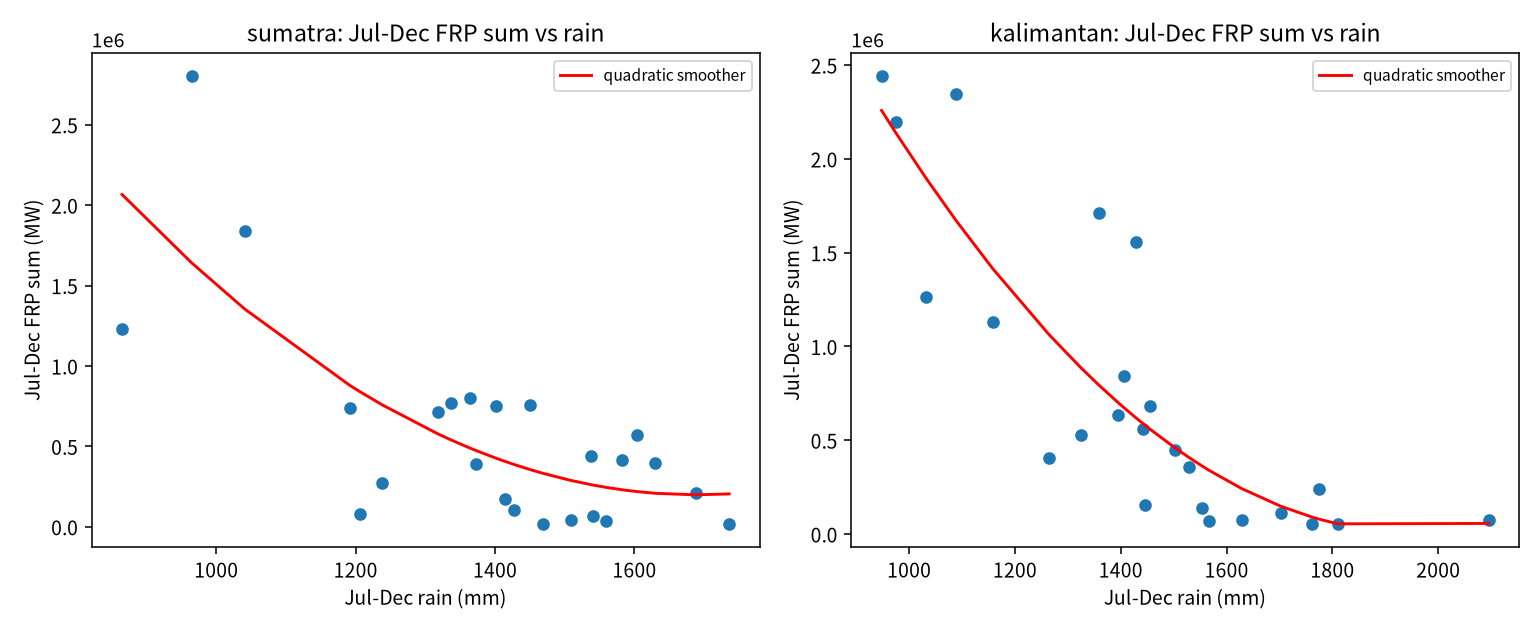
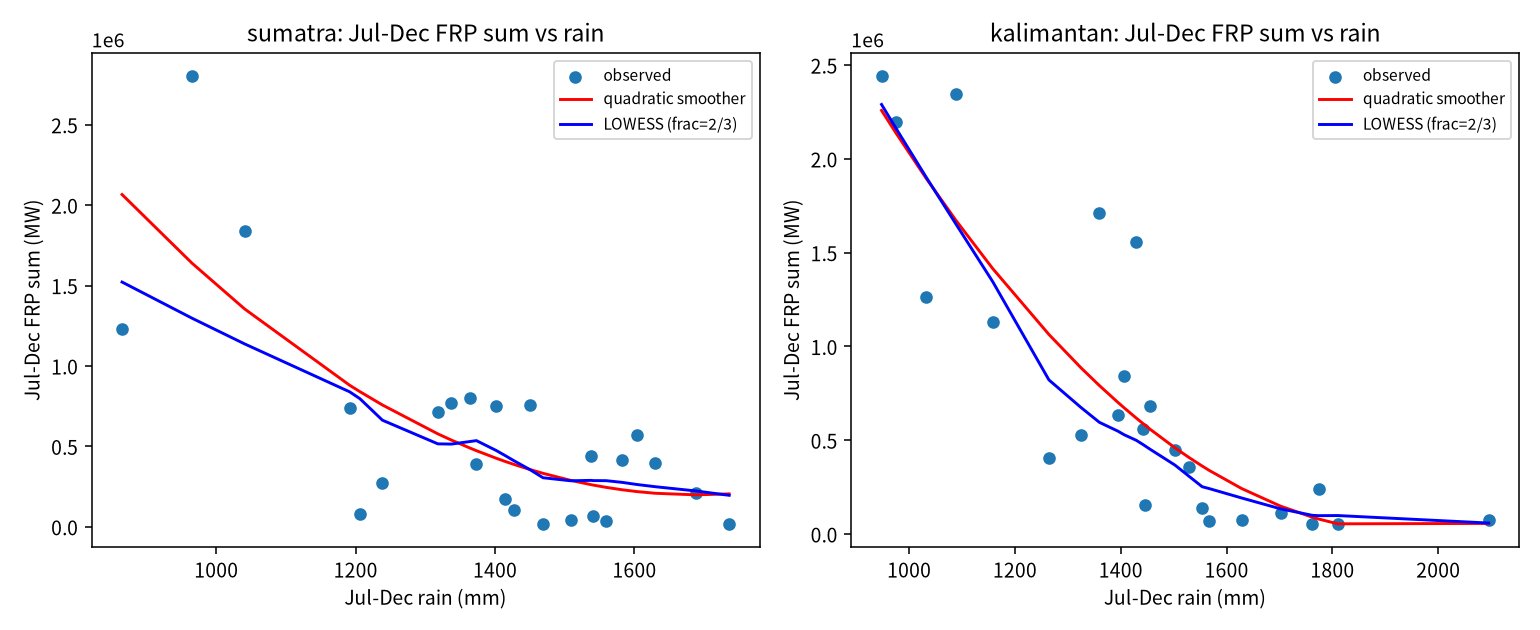
fix(v2-stage2): address review comments on Holm, Sloan labels, LOWESS, residuals
Four reviewer-requested fixes:

1. Holm correction: replaced the reverse-cummin (step-up) implementation with
   statsmodels.stats.multitest.multipletests(p, method="holm"). T3 and T5
   adjusted p-values are now 4.75e-06 (previously 4.26e-06). All six tests
   remain significant at alpha=0.05.

2. Sloan comparison labels: the 19-27% and 23-34% figures are now described as
   ranges across Sloan's four regions for both islands. The -16% seasonal
   severity figure is noted as Sloan's Sumatra value. Added a note that our
   island boxes are not the same units as Sloan's regions, so the comparison
   is side-by-side, not like-for-like. Removed "national" and "regional"
   wording.

3. FRP-rain scatter: added a LOWESS smoother (statsmodels lowess, frac=2/3)
   alongside the existing quadratic curve in v2_exploratory_frp_rain.png.
   Re-described the shape as a gradual negative slope without a sharp
   threshold. Marked exploratory, no significance claims.

4. T1/T2 residual diagnostics: added v2_t1t2_residuals.csv with mean WLS
   residuals for 2002-2015 and 2016-2025 (unweighted and fire-point-weighted).
   Post-2016 mean residuals are negative for both islands, indicating the
   linear trend under-predicts the post-2016 decline. Descriptive only; no
   new test, no change to main results.

Step 1 and T1/T2 primary results are unchanged (seeds fixed).

diff --git a/src/v2_stage2.py b/src/v2_stage2.py
@@ -12,6 +12,7 @@ Outputs:
   results/v2_step1_models.csv       Step 1 (a) severe/very-severe and (b) skewness, 2002-2019
   results/v2_step1_yearly.csv       yearly inputs for Step 1
   results/v2_t1t2_primary.csv       T1/T2 2002-2025 WLS, p-values, bootstrap, LOO
+  results/v2_t1t2_residuals.csv    T1/T2 WLS mean residuals, 2002-2015 vs 2016-2025
   results/v2_t1t2_robustness.csv    T1/T2 robustness (post2016 step, block bootstrap, LOO, Aqua)
   results/v2_t1t2_yearly.csv        yearly inputs for T1/T2
   results/v2_holm.csv               Holm correction over T1-T6
@@ -329,6 +330,7 @@ def run_t1t2_robustness(yearly, events_all):
 
 # ---------- Holm ----------
 def holm():
+    from statsmodels.stats.multitest import multipletests
     q3 = pd.read_csv(os.path.join(RES, "v2_q3_results.csv"))
     q3p = q3[q3["kind"] == "primary"][["id", "p_raw"]].copy()
     q3p.columns = ["id", "p_raw"]
@@ -338,9 +340,8 @@ def holm():
     p = p.sort_values("p_raw").reset_index(drop=True)
     m = len(p)
     p["rank"] = np.arange(1, m + 1)
-    p["holm_p"] = np.minimum(1.0, (m - p["rank"] + 1) * p["p_raw"])
-    # enforce monotonicity (holm p is non-decreasing in rank)
-    p["holm_p"] = p["holm_p"][::-1].cummin()[::-1]
+    reject, holm_p, _, _ = multipletests(p["p_raw"].to_numpy(float), alpha=0.05, method="holm")
+    p["holm_p"] = holm_p
     p["significant_0.05"] = p["holm_p"] < 0.05
     return p
 
@@ -417,19 +418,26 @@ def make_plots(yearly, events):
     fig.savefig(os.path.join(RES, "v2_t1t2_trend.png"), dpi=140)
     plt.close(fig)
 
-    # exploratory: FRP sum vs Jul-Dec rain, scatter + lowess-ish smoother
+    # exploratory: FRP sum vs Jul-Dec rain, scatter + quadratic + LOWESS smoothers
+    from statsmodels.nonparametric.smoothers_lowess import lowess
     fig, axes = plt.subplots(1, 2, figsize=(11, 4.5))
     for ax, isl in zip(axes, ISLANDS):
         d = yearly[yearly["island"] == isl]
-        ax.scatter(d["rain_juldec"], d["frp_sum"], s=30)
-        # simple loess via polynomial order 2
+        ax.scatter(d["rain_juldec"], d["frp_sum"], s=30, label="observed")
+        x = d["rain_juldec"].to_numpy(float)
+        y = d["frp_sum"].to_numpy(float)
+        order = np.argsort(x)
+        xs = x[order]
+        # quadratic smoother (reference)
         try:
-            x = d["rain_juldec"].to_numpy(float)
-            y = d["frp_sum"].to_numpy(float)
-            order = np.argsort(x)
-            xs = x[order]
             coef = np.polyfit(x, y, 2)
             ax.plot(xs, np.polyval(coef, xs), color="red", label="quadratic smoother")
+        except Exception:
+            pass
+        # LOWESS smoother (frac=2/3)
+        try:
+            lw = lowess(y, x, frac=2.0 / 3.0, return_sorted=True)
+            ax.plot(lw[:, 0], lw[:, 1], color="blue", label="LOWESS (frac=2/3)")
         except Exception:
             pass
         ax.set_title(f"{isl}: Jul-Dec FRP sum vs rain")
@@ -439,6 +447,32 @@ def make_plots(yearly, events):
     fig.tight_layout()
     fig.savefig(os.path.join(RES, "v2_exploratory_frp_rain.png"), dpi=140)
     plt.close(fig)
+
+
+# ---------- T1/T2 residual diagnostics (descriptive, no test) ----------
+def t1t2_residuals(yearly):
+    """Mean WLS residuals of the T1/T2 severe-share model, split at 2016.
+
+    Computes, per island, the mean residual for 2002-2015 and 2016-2025, both
+    unweighted and weighted by fire_points. Descriptive only; no significance
+    test is performed and the main results are not changed.
+    """
+    rows = []
+    for tid, isl in zip(["T1", "T2"], ISLANDS):
+        d = yearly[yearly["island"] == isl].copy()
+        m, sub = fit_wls(d, "prop_severe", ["rain_juldec", "year0"], "fire_points")
+        sub = sub.copy()
+        sub["resid"] = m.resid
+        sub["year"] = d.loc[sub.index, "year"].to_numpy()
+        for label, mask in [("2002-2015", sub["year"] <= 2015),
+                            ("2016-2025", sub["year"] >= 2016)]:
+            g = sub[mask]
+            rows.append({
+                "id": tid, "island": isl, "period": label, "n": int(len(g)),
+                "mean_resid_unweighted": float(g["resid"].mean()),
+                "mean_resid_weighted": float(np.average(g["resid"], weights=g["fire_points"])),
+            })
+    return pd.DataFrame(rows)
 
 
 def main():
@@ -462,6 +496,10 @@ def main():
     t1t2 = run_t1t2(yearly)
     t1t2.to_csv(os.path.join(RES, "v2_t1t2_primary.csv"), index=False)
     yearly.to_csv(os.path.join(RES, "v2_t1t2_yearly.csv"), index=False)
+
+    # T1/T2 residual diagnostics (descriptive)
+    res = t1t2_residuals(yearly)
+    res.to_csv(os.path.join(RES, "v2_t1t2_residuals.csv"), index=False)
 
     # T1/T2 robustness
     print("T1/T2 robustness...")
@@ -493,6 +531,8 @@ def main():
     print(step1.to_string(index=False))
     print("\n=== T1/T2 ===")
     print(t1t2.to_string(index=False))
+    print("\n=== T1/T2 residuals (descriptive) ===")
+    print(res.to_string(index=False))
     print("\n=== T1/T2 robustness ===")
     print(rob.to_string(index=False))
     print("\n=== Holm ===")

diff --git a/docs/2026-11-02_v2_results.md b/docs/2026-11-02_v2_results.md
@@ -70,13 +70,13 @@ are from `results/v2_t1t2_primary.csv`. Holm-adjusted p-values are in
 
 All values from `results/v2_step1_models.csv`.
 
-| Island | Outcome | Year coef | % change 17 yr | Bootstrap 95% CI | Sloan (regional) |
+| Island | Outcome | Year coef | % change 17 yr | Bootstrap 95% CI | Sloan (range across four regions) |
 |---|---|---|---|---|---|
 | Sumatra | severe | -0.001898 | -11.7% | [-29.7%, -0.6%] | 19-27% decline |
 | Sumatra | very severe | 0.000143 | +2.3% | [-25.2%, +19.6%] | 23-34% decline |
-| Sumatra | skewness | -1.8565 | -48.1% | [-79.3%, +15.0%] | -16% (Sumatra) |
-| Kalimantan | severe | -0.003421 | -17.7% | [-35.9%, -11.0%] | 19-27% decline (national) |
-| Kalimantan | very severe | -0.002596 | -30.1% | [-59.1%, -12.8%] | 23-34% decline (national) |
+| Sumatra | skewness | -1.8565 | -48.1% | [-79.3%, +15.0%] | -16% (Sumatra seasonal severity) |
+| Kalimantan | severe | -0.003421 | -17.7% | [-35.9%, -11.0%] | 19-27% decline |
+| Kalimantan | very severe | -0.002596 | -30.1% | [-59.1%, -12.8%] | 23-34% decline |
 | Kalimantan | skewness | -0.8006 | -30.9% | [-62.9%, +27.9%] | (not reported by Sloan) |
 
 Drop-2015 / drop-2019 (severe model):
@@ -90,19 +90,24 @@ Drop-2015 / drop-2019 (severe model):
 
 Honest comparison with Sloan et al. 2022:
 
-- Severe-event decline: Sumatra -11.7 percent (Sloan 19-27 percent) is the same direction
-  but about half the magnitude. Kalimantan -17.7 percent is also a decline; Sloan's figure
-  is national, so it is not directly comparable.
-- Very-severe-event decline: Sumatra goes the opposite way, +2.3 percent (Sloan 23-34
-  percent decline), with a wide bootstrap interval that includes zero. Kalimantan -30.1
-  percent is inside Sloan's national range.
-- Seasonal-severity skewness: Sumatra -48.1 percent (Sloan -16 percent) and Kalimantan
-  -30.9 percent are both declines, but both bootstrap intervals include zero, so the
-  direction is not robust.
+- The Sloan figures in the table are the ranges across his four regions
+  (Indonesia excluding Java and Lesser Sunda; Central-South Sumatra; Southern
+  Kalimantan; Targeted Areas). The -16 percent seasonal-severity figure is his
+  Sumatra value. Our two island boxes are not the same geographic units as
+  Sloan's regions, so this is a side-by-side comparison, not a like-for-like
+  reproduction.
+- Severe-event decline: Sumatra -11.7 percent and Kalimantan -17.7 percent are
+  the same direction as Sloan's 19-27 percent range but smaller in magnitude.
+- Very-severe-event decline: Sumatra goes the opposite way, +2.3 percent (Sloan
+  23-34 percent decline), with a wide bootstrap interval that includes zero.
+  Kalimantan -30.1 percent falls inside Sloan's range.
+- Seasonal-severity skewness: Sumatra -48.1 percent (Sloan -16 percent for
+  Sumatra) and Kalimantan -30.9 percent are both declines, but both bootstrap
+  intervals include zero, so the direction is not robust.
 
-These differences are kept as-is. Our island boxes differ from Sloan's province-based
-regions, and our events may cross the calendar year (Sloan's do not), which can affect the
-very-severe share most because very-severe events are rare and sensitive to edge handling.
+These differences are kept as-is. Beyond the box/region mismatch, our events
+may cross the calendar year (Sloan's do not), which can affect the very-severe
+share most because very-severe events are rare and sensitive to edge handling.
 
 ## 4. T1 and T2 (2002-2025)
 
@@ -115,6 +120,27 @@ All values from `results/v2_t1t2_primary.csv`.
 
 Both year coefficients are negative. T1 two-sided p = 0.0028 and T2 two-sided p = 0.000035.
 
+### Residual diagnostics (descriptive, no test)
+
+Mean WLS residuals from the main T1/T2 model, split at 2016, are in
+`results/v2_t1t2_residuals.csv`. This is a descriptive check only; no new test
+is run and the main results above are unchanged.
+
+| Test | Period | n | Mean residual (unweighted) | Mean residual (weighted by fire points) |
+|---|---|---|---|---|
+| T1 Sumatra | 2002-2015 | 14 | 0.0034 | 0.0051 |
+| T1 Sumatra | 2016-2025 | 10 | -0.0652 | -0.0257 |
+| T2 Kalimantan | 2002-2015 | 14 | -0.0042 | 0.0021 |
+| T2 Kalimantan | 2016-2025 | 10 | -0.0316 | -0.0095 |
+
+For both islands the mean residual is close to zero in 2002-2015 and negative
+in 2016-2025, under both the unweighted and fire-point-weighted averages. A
+negative residual means the observed severe-event share is below the linear
+trend's fitted value, so the post-2016 decline is somewhat steeper than the
+straight-line model implies. This is consistent with the post-2016 step model
+in the robustness section, but it is described here only as a pattern in the
+residuals and is not tested.
+
 ## 5. Holm correction over T1-T6
 
 All values from `results/v2_holm.csv`. T3-T6 p-values are from `results/v2_q3_results.csv`
@@ -124,12 +150,14 @@ All values from `results/v2_holm.csv`. T3-T6 p-values are from `results/v2_q3_re
 |---|---|---|---|---|
 | T6 | 4.01e-11 | 1 | 2.40e-10 | True |
 | T4 | 1.69e-10 | 2 | 8.47e-10 | True |
-| T3 | 1.19e-06 | 3 | 4.26e-06 | True |
-| T5 | 1.42e-06 | 4 | 4.26e-06 | True |
+| T3 | 1.19e-06 | 3 | 4.75e-06 | True |
+| T5 | 1.42e-06 | 4 | 4.75e-06 | True |
 | T2 | 3.50e-05 | 5 | 6.99e-05 | True |
 | T1 | 2.79e-03 | 6 | 2.79e-03 | True |
 
-All six tests are significant at alpha = 0.05 after Holm correction.
+All six tests are significant at alpha = 0.05 after Holm correction. Holm
+p-values are computed with `statsmodels.stats.multitest.multipletests(p,
+method="holm")`.
 
 ## 6. Robustness for T1 and T2
 
@@ -181,9 +209,14 @@ on both islands, consistent with the rain-fire link.
 
 ### FRP sum vs rain scatter
 
-`results/v2_exploratory_frp_rain.png` plots Jul-Dec FRP sum against Jul-Dec rain for each
-island, 2002-2025, with a quadratic smoother. The relationship is negative but does not
-show an obvious sharp threshold; the smoother is broadly monotonic rather than step-shaped.
+`results/v2_exploratory_frp_rain.png` plots Jul-Dec FRP sum against Jul-Dec rain
+for each island, 2002-2025, with two smoothers: a quadratic curve (reference)
+and a LOWESS curve with `frac = 2/3` from `statsmodels.nonparametric.smoothers_lowess`.
+Both smoothers decline as rain increases, so the overall relationship is
+negative. The LOWESS curve does not show a sharp step or threshold; it slopes
+down gradually over the rain range, with some flattening at the high-rain end.
+The quadratic curve is broadly similar in shape but smoother. This is
+exploratory; no significance is claimed and no threshold test is performed.
 
 T1/T2 fitted trends are in `results/v2_t1t2_trend.png`.
 
@@ -193,7 +226,7 @@ T1/T2 fitted trends are in `results/v2_t1t2_trend.png`.
   parameters; defaults reproduce the Step 0 output byte-for-byte (verified by rerun).
 - `src/v2_stage2.py`: this stage.
 - `results/v2_step1_models.csv`, `results/v2_step1_yearly.csv`
-- `results/v2_t1t2_primary.csv`, `results/v2_t1t2_yearly.csv`, `results/v2_t1t2_robustness.csv`
+- `results/v2_t1t2_primary.csv`, `results/v2_t1t2_yearly.csv`, `results/v2_t1t2_robustness.csv`, `results/v2_t1t2_residuals.csv`
 - `results/v2_holm.csv`
 - `results/v2_exploratory_skewness.csv`, `results/v2_exploratory_2019_vs_2023.csv`
 - `results/v2_viirs_chirps_status.csv`, `results/v2_event_build_summary.csv`
